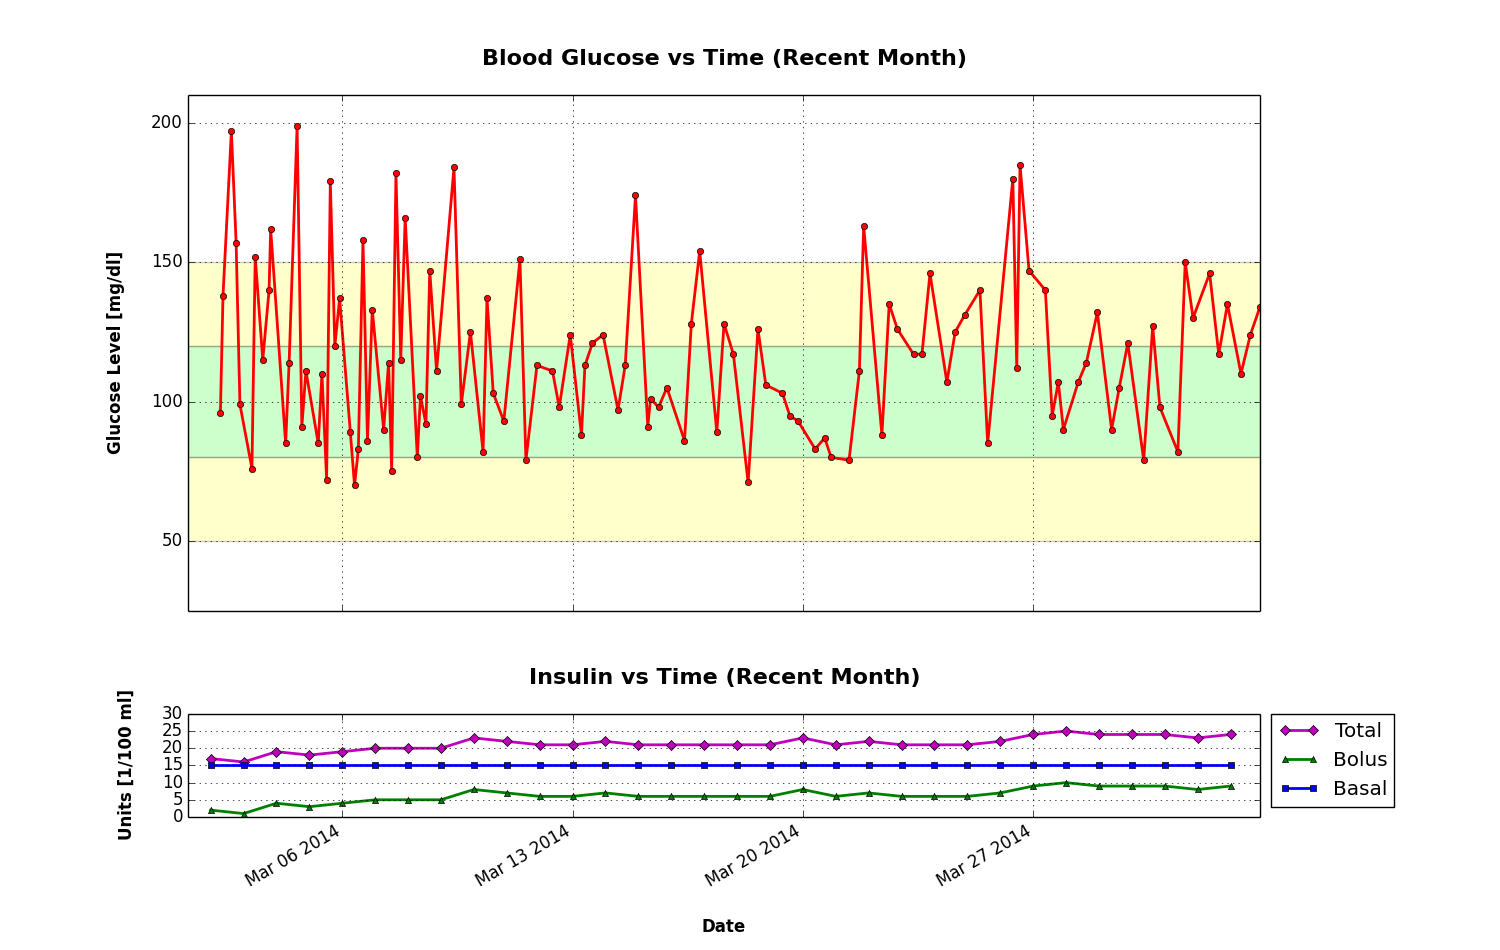
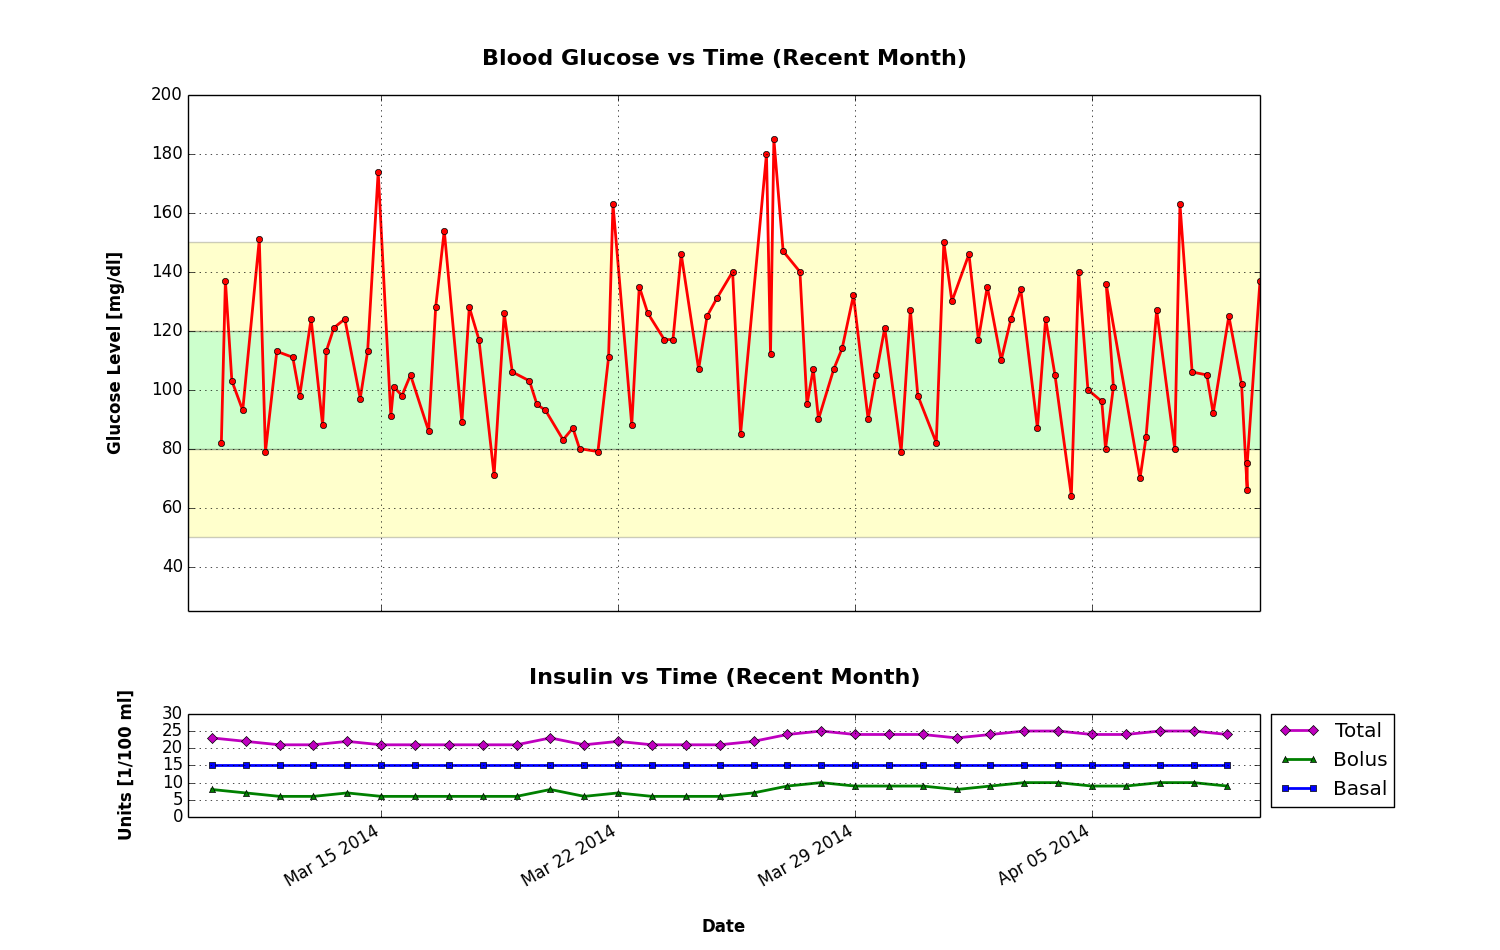
Data Update

diff --git a/d_update.py b/d_update.py
@@ -2,13 +2,16 @@
 
 
 def update():
-    date = ['2014/04/02']
-    carb = ['42', '7', '45', '14', '45', '2']
-    glucose = [['7:36', '110', '-'], ['14:30', '124', '-'],
-               ['21:30', '134', '-']]
-    insulin_fast = [['5:00', '3'], ['12:00', '3'], ['18:30', '3']]
+    date = ['2014/04/09']
+    carb = ['42', '7', '57', '14', '30', '2']
+    glucose = [['1:00', '125', '-'],
+               ['10:00', '102', '-'],
+               ['14:00', '66', '-'],
+               ['14:01', '75', '-'],
+               ['23:05', '137', '-']]
+    insulin_fast = [['6:30', '3'], ['12:00', '4'], ['18:30', '2']]
     insulin_slow = [['0:00', '15']]
-    weight = [['169']]
+    weight = [['168']]
 
     carb_name = ['breakfast', 'morning_snack', 'lunch', 'afternoon_snack',
                  'dinner', 'evening_snack']

diff --git a/d_monitor.py b/d_monitor.py
@@ -365,6 +365,9 @@ def plot_gen(data):
     plt.close(fig1)
 
     # Subplot Recent Glucose and Insulin
+
+    # TODO Add daily average markers for blood glucose
+    # TODO Create pie chart of time in target zone, secondary zone, and out of zone
     prior_month = datetime.date.today() + relativedelta(months=-1)
     x2a = []
     y2a = []
